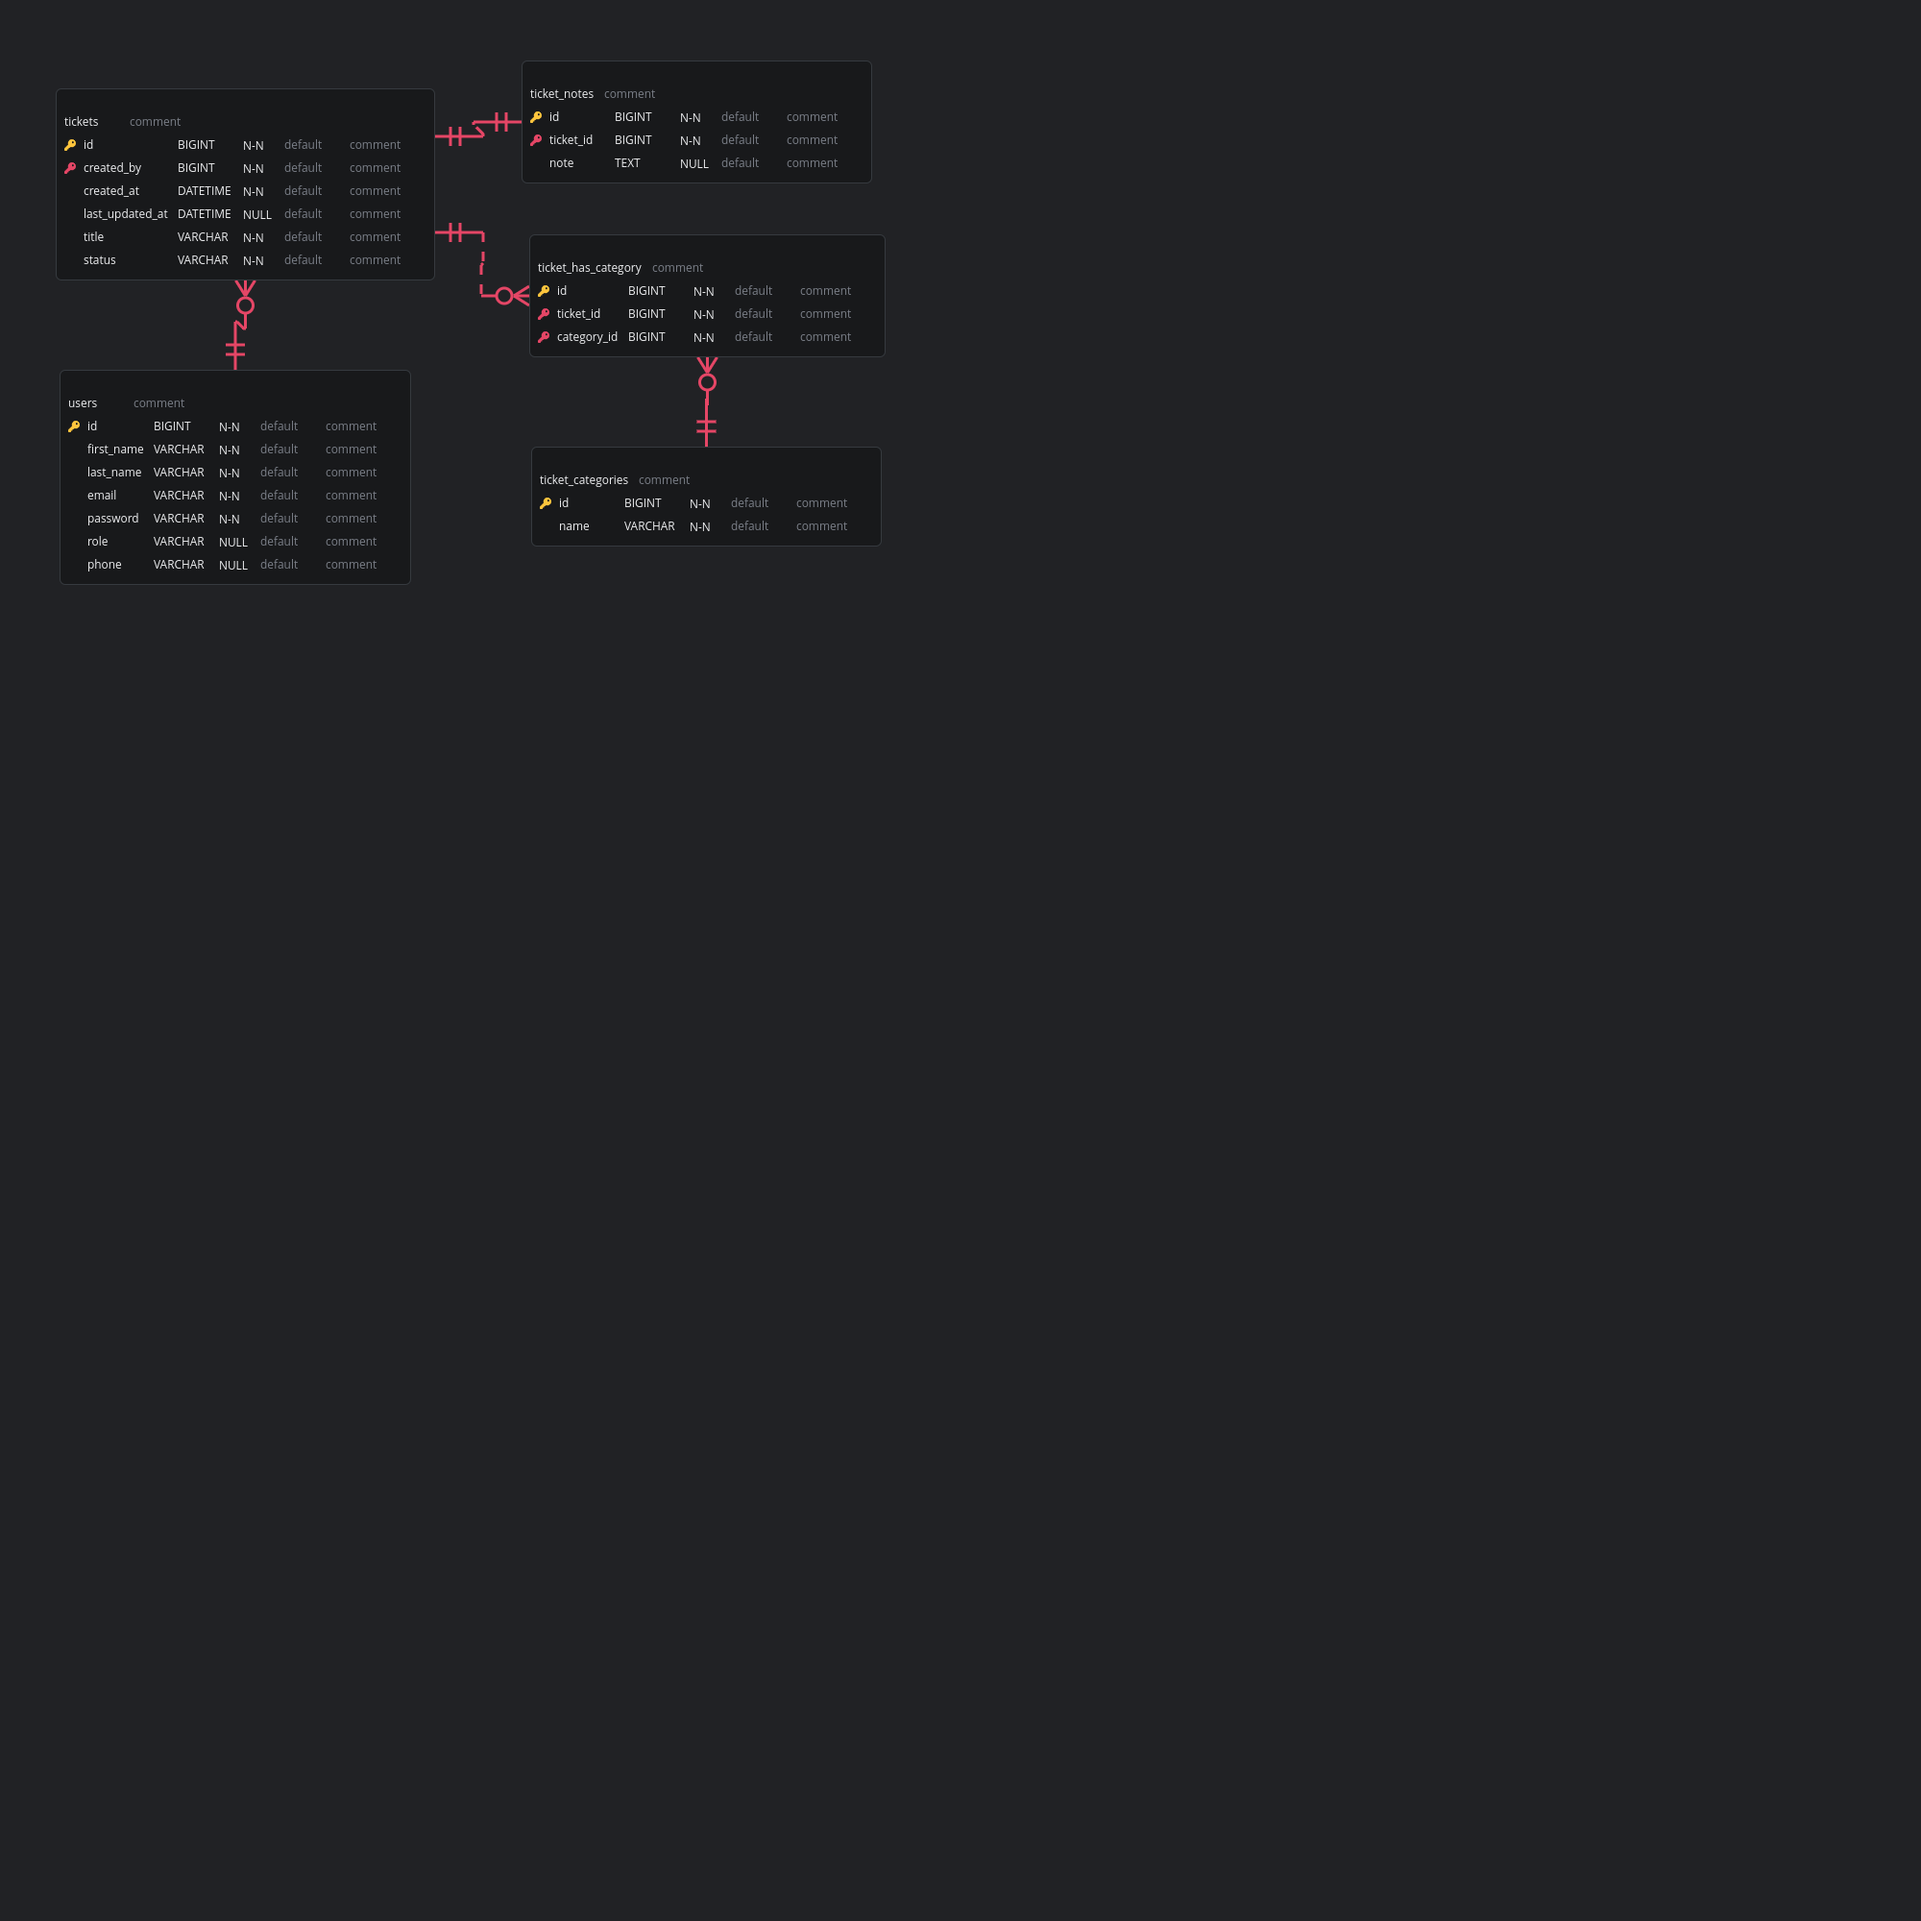
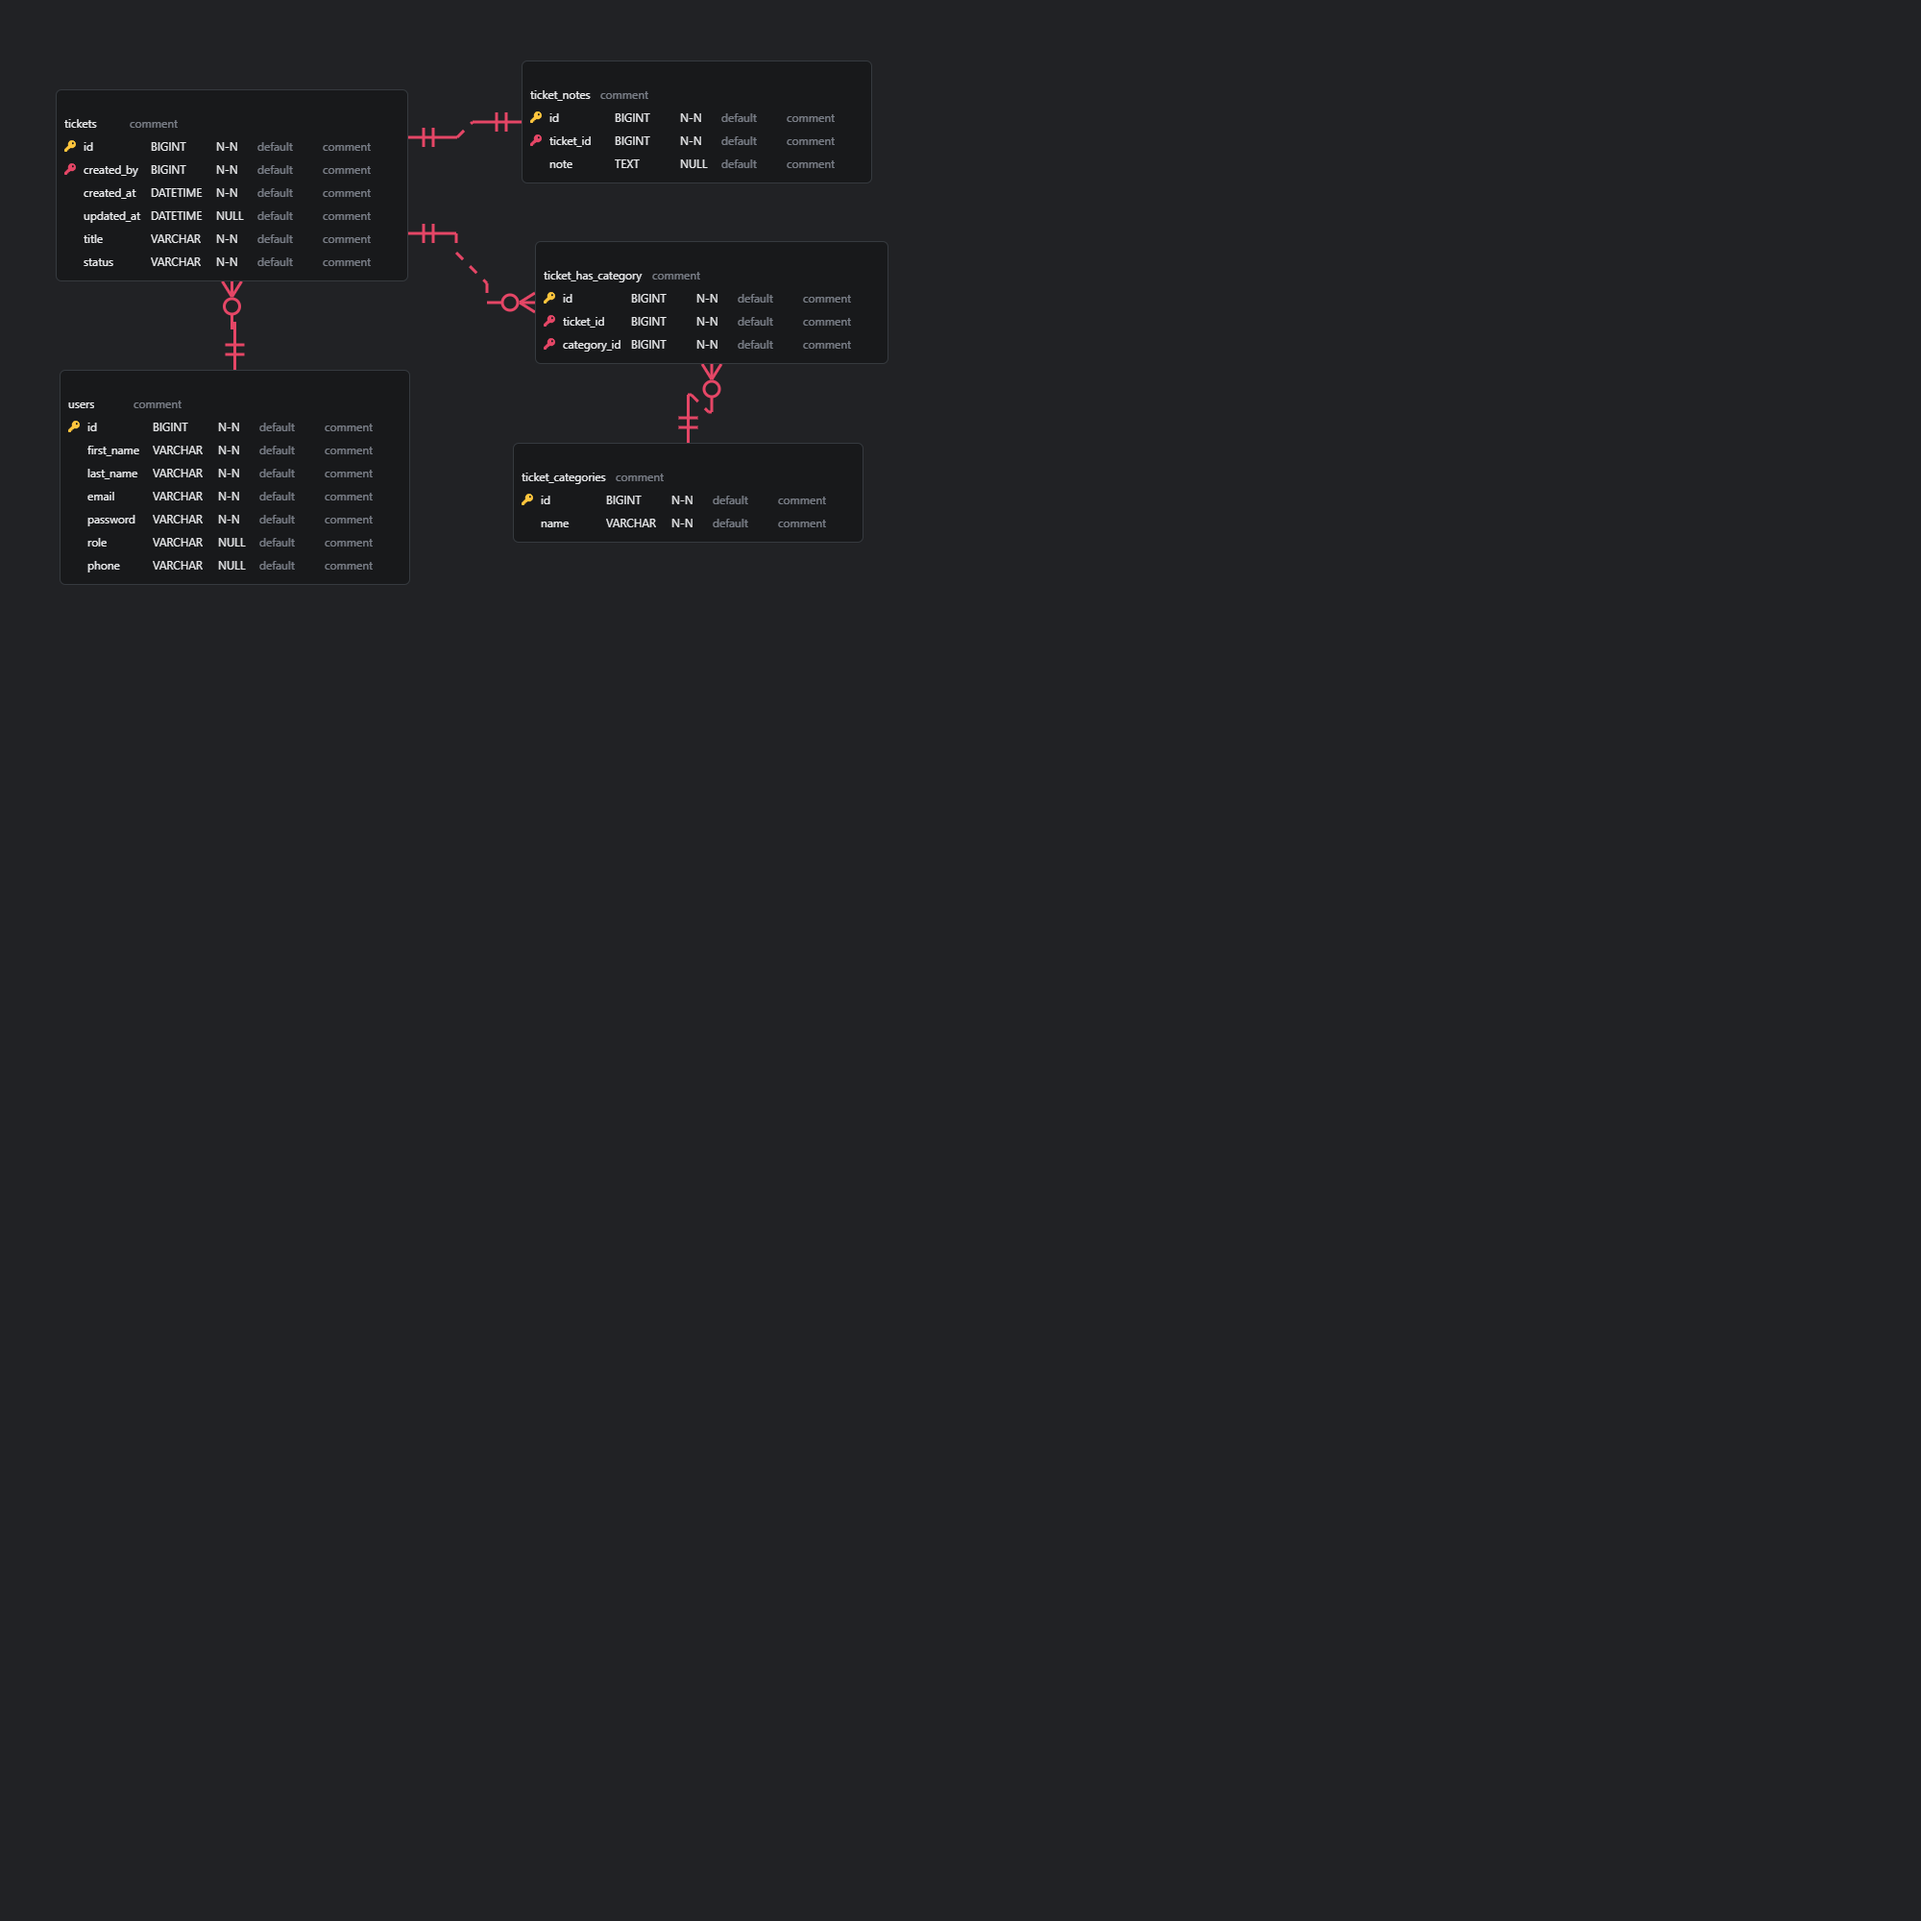
tables

diff --git a/database/migrations/0001_01_01_000000_create_users_table.php b/database/migrations/0001_01_01_000000_create_users_table.php
@@ -13,12 +13,16 @@ return new class extends Migration
     {
         Schema::create('users', function (Blueprint $table) {
             $table->id();
-            $table->string('name');
+            $table->string('first_name');
+            $table->string('last_name');
             $table->string('email')->unique();
             $table->timestamp('email_verified_at')->nullable();
             $table->string('password');
+            $table->string('role');
+            $table->string('phone');
             $table->rememberToken();
             $table->timestamps();
+
         });
 
         Schema::create('password_reset_tokens', function (Blueprint $table) {

diff --git a/database/migrations/2024_09_09_101824_create_tickets_table.php b/database/migrations/2024_09_09_101824_create_tickets_table.php
@@ -13,7 +13,13 @@ return new class extends Migration
     {
         Schema::create('tickets', function (Blueprint $table) {
             $table->id();
+            $table->foreignId('created_by')->constrained(table: 'users');
             $table->timestamps();
+            // DATETIME instead of TIMESTAMP column type
+            // $table->dateTime('created_at')->useCurrent();
+            // $table->dateTime('updated_at')->useCurrentOnUpdate()->nullable();
+            $table->string('title');
+            $table->string('status');
         });
     }
 

diff --git a/database/migrations/2024_09_09_102132_create_ticket_has_categories_table.php b/database/migrations/2024_09_09_102132_create_ticket_has_categories_table.php
@@ -13,7 +13,8 @@ return new class extends Migration
     {
         Schema::create('ticket_has_categories', function (Blueprint $table) {
             $table->id();
-            $table->timestamps();
+            $table->foreignId('ticket_id')->constrained();
+            $table->foreignId('category_id')->constrained(table: 'ticket_categories');
         });
     }
 

diff --git a/database/migrations/2024_09_09_101838_create_ticket_notes_table.php b/database/migrations/2024_09_09_101838_create_ticket_notes_table.php
@@ -13,7 +13,8 @@ return new class extends Migration
     {
         Schema::create('ticket_notes', function (Blueprint $table) {
             $table->id();
-            $table->timestamps();
+            $table->foreignId('ticket_id')->constrained();
+            $table->text('note');
         });
     }
 

diff --git a/database/migrations/2024_09_09_101840_create_ticket_categories_table.php b/database/migrations/2024_09_09_101840_create_ticket_categories_table.php
@@ -13,7 +13,7 @@ return new class extends Migration
     {
         Schema::create('ticket_categories', function (Blueprint $table) {
             $table->id();
-            $table->timestamps();
+            $table->string('name');
         });
     }
 
